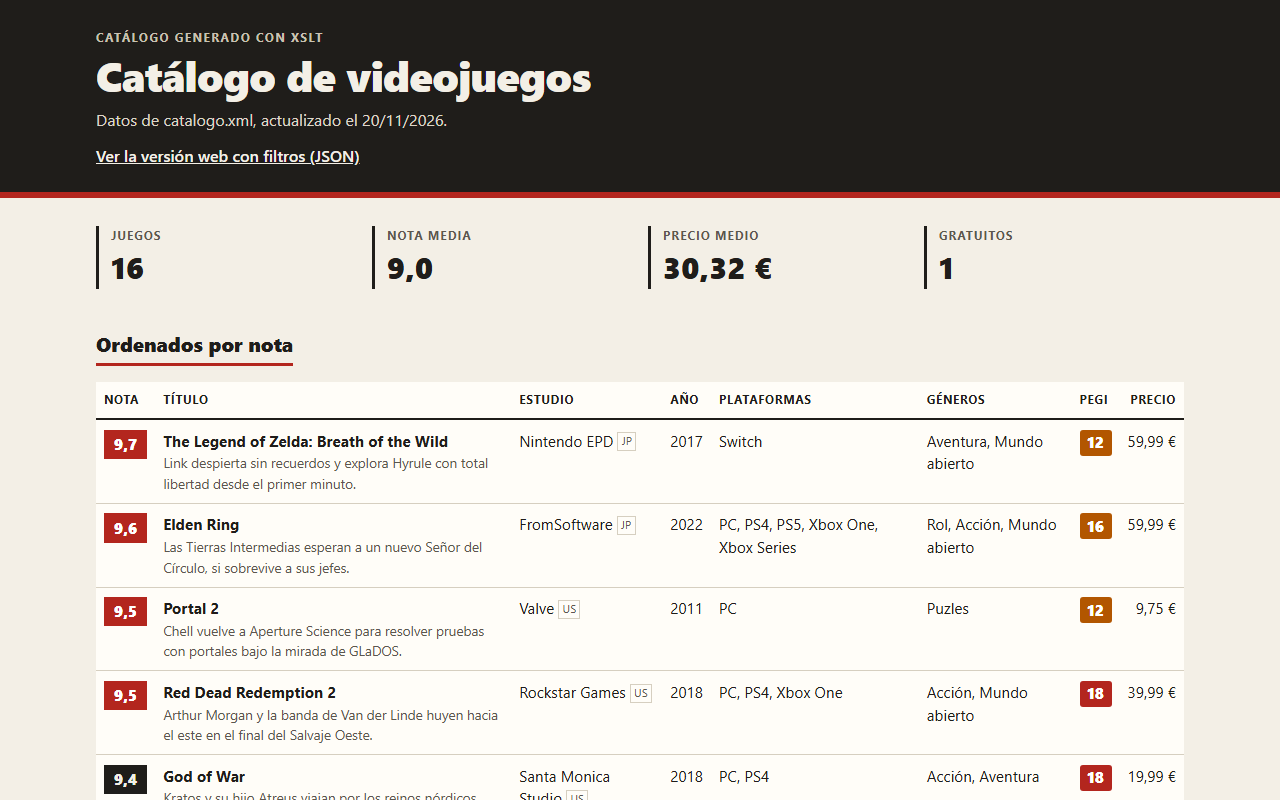
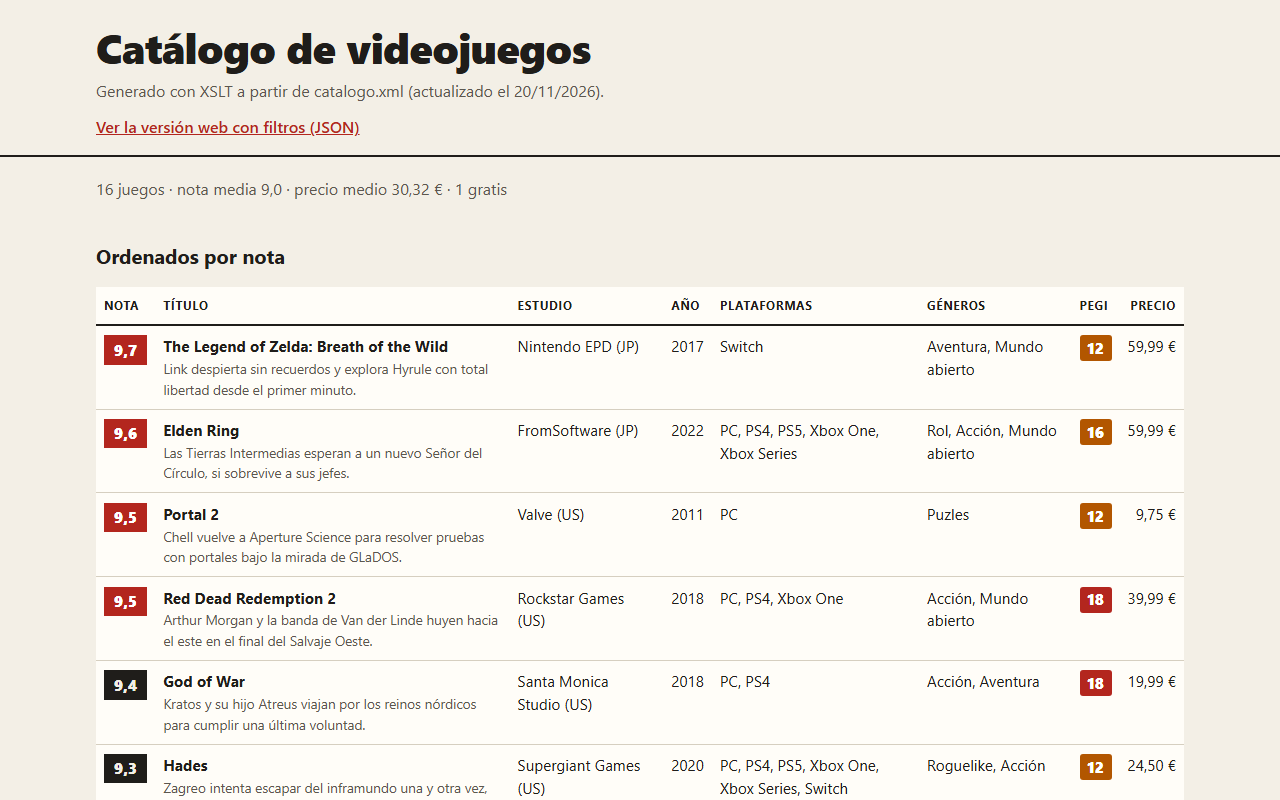
Cambio el diseño del catálogo y acorto el README

diff --git a/salida/catalogo.html b/salida/catalogo.html
@@ -9,35 +9,15 @@
     <body>
         <header class="cabecera">
             <div class="contenedor">
-                <p class="cabecera__etiqueta">Cat&aacute;logo generado con XSLT</p>
                 <h1>Cat&aacute;logo de videojuegos</h1>
-                <p class="cabecera__texto">Datos de catalogo.xml, actualizado el 20/11/2026.</p>
+                <p class="cabecera__texto">Generado con XSLT a partir de catalogo.xml (actualizado el 20/11/2026).</p>
                 <nav class="cabecera__enlaces" aria-label="Otras vistas">
                     <a href="../web/index.html">Ver la versi&oacute;n web con filtros (JSON)</a>
                 </nav>
             </div>
         </header>
         <main class="contenedor">
-            <section aria-label="Resumen del cat&aacute;logo">
-                <dl class="resumen">
-                    <div>
-                        <dt>Juegos</dt>
-                        <dd>16</dd>
-                    </div>
-                    <div>
-                        <dt>Nota media</dt>
-                        <dd>9,0</dd>
-                    </div>
-                    <div>
-                        <dt>Precio medio</dt>
-                        <dd>30,32&nbsp;&euro;</dd>
-                    </div>
-                    <div>
-                        <dt>Gratuitos</dt>
-                        <dd>1</dd>
-                    </div>
-                </dl>
-            </section>
+            <p class="resumen">16 juegos &middot; nota media 9,0 &middot; precio medio 30,32&nbsp;&euro; &middot; 1 gratis</p>
             <section aria-labelledby="titulo-tabla">
                 <h2 id="titulo-tabla">Ordenados por nota</h2>
                 <div class="tabla-envoltorio">
@@ -49,52 +29,52 @@
                         </thead>
                         <tbody>
                             <tr>
-                                <td data-etiqueta="Nota"><span class="nota nota--alta">9,7</span></td><th scope="row" data-etiqueta="T&iacute;tulo"><span class="tabla__titulo">The Legend of Zelda: Breath of the Wild</span><span class="tabla__descripcion">Link despierta sin recuerdos y explora Hyrule con total libertad desde el primer minuto.</span></th><td data-etiqueta="Estudio">Nintendo EPD<span class="pais">JP</span></td><td data-etiqueta="A&ntilde;o">2017</td><td data-etiqueta="Plataformas">Switch</td><td data-etiqueta="G&eacute;neros">Aventura, Mundo abierto</td><td data-etiqueta="PEGI"><span class="pegi pegi--naranja"><span class="visualmente-oculto">PEGI </span>12</span></td><td data-etiqueta="Precio" class="num">59,99&nbsp;&euro;</td>
+                                <td data-etiqueta="Nota"><span class="nota nota--alta">9,7</span></td><th scope="row" data-etiqueta="T&iacute;tulo"><span class="tabla__titulo">The Legend of Zelda: Breath of the Wild</span><span class="tabla__descripcion">Link despierta sin recuerdos y explora Hyrule con total libertad desde el primer minuto.</span></th><td data-etiqueta="Estudio">Nintendo EPD (JP)</td><td data-etiqueta="A&ntilde;o">2017</td><td data-etiqueta="Plataformas">Switch</td><td data-etiqueta="G&eacute;neros">Aventura, Mundo abierto</td><td data-etiqueta="PEGI"><span class="pegi pegi--naranja"><span class="visualmente-oculto">PEGI </span>12</span></td><td data-etiqueta="Precio" class="num">59,99&nbsp;&euro;</td>
                             </tr>
                             <tr>
-                                <td data-etiqueta="Nota"><span class="nota nota--alta">9,6</span></td><th scope="row" data-etiqueta="T&iacute;tulo"><span class="tabla__titulo">Elden Ring</span><span class="tabla__descripcion">Las Tierras Intermedias esperan a un nuevo Se&ntilde;or del C&iacute;rculo, si sobrevive a sus jefes.</span></th><td data-etiqueta="Estudio">FromSoftware<span class="pais">JP</span></td><td data-etiqueta="A&ntilde;o">2022</td><td data-etiqueta="Plataformas">PC, PS4, PS5, Xbox One, Xbox Series</td><td data-etiqueta="G&eacute;neros">Rol, Acci&oacute;n, Mundo abierto</td><td data-etiqueta="PEGI"><span class="pegi pegi--naranja"><span class="visualmente-oculto">PEGI </span>16</span></td><td data-etiqueta="Precio" class="num">59,99&nbsp;&euro;</td>
+                                <td data-etiqueta="Nota"><span class="nota nota--alta">9,6</span></td><th scope="row" data-etiqueta="T&iacute;tulo"><span class="tabla__titulo">Elden Ring</span><span class="tabla__descripcion">Las Tierras Intermedias esperan a un nuevo Se&ntilde;or del C&iacute;rculo, si sobrevive a sus jefes.</span></th><td data-etiqueta="Estudio">FromSoftware (JP)</td><td data-etiqueta="A&ntilde;o">2022</td><td data-etiqueta="Plataformas">PC, PS4, PS5, Xbox One, Xbox Series</td><td data-etiqueta="G&eacute;neros">Rol, Acci&oacute;n, Mundo abierto</td><td data-etiqueta="PEGI"><span class="pegi pegi--naranja"><span class="visualmente-oculto">PEGI </span>16</span></td><td data-etiqueta="Precio" class="num">59,99&nbsp;&euro;</td>
                             </tr>
                             <tr>
-                                <td data-etiqueta="Nota"><span class="nota nota--alta">9,5</span></td><th scope="row" data-etiqueta="T&iacute;tulo"><span class="tabla__titulo">Portal 2</span><span class="tabla__descripcion">Chell vuelve a Aperture Science para resolver pruebas con portales bajo la mirada de GLaDOS.</span></th><td data-etiqueta="Estudio">Valve<span class="pais">US</span></td><td data-etiqueta="A&ntilde;o">2011</td><td data-etiqueta="Plataformas">PC</td><td data-etiqueta="G&eacute;neros">Puzles</td><td data-etiqueta="PEGI"><span class="pegi pegi--naranja"><span class="visualmente-oculto">PEGI </span>12</span></td><td data-etiqueta="Precio" class="num">9,75&nbsp;&euro;</td>
+                                <td data-etiqueta="Nota"><span class="nota nota--alta">9,5</span></td><th scope="row" data-etiqueta="T&iacute;tulo"><span class="tabla__titulo">Portal 2</span><span class="tabla__descripcion">Chell vuelve a Aperture Science para resolver pruebas con portales bajo la mirada de GLaDOS.</span></th><td data-etiqueta="Estudio">Valve (US)</td><td data-etiqueta="A&ntilde;o">2011</td><td data-etiqueta="Plataformas">PC</td><td data-etiqueta="G&eacute;neros">Puzles</td><td data-etiqueta="PEGI"><span class="pegi pegi--naranja"><span class="visualmente-oculto">PEGI </span>12</span></td><td data-etiqueta="Precio" class="num">9,75&nbsp;&euro;</td>
                             </tr>
                             <tr>
-                                <td data-etiqueta="Nota"><span class="nota nota--alta">9,5</span></td><th scope="row" data-etiqueta="T&iacute;tulo"><span class="tabla__titulo">Red Dead Redemption 2</span><span class="tabla__descripcion">Arthur Morgan y la banda de Van der Linde huyen hacia el este en el final del Salvaje Oeste.</span></th><td data-etiqueta="Estudio">Rockstar Games<span class="pais">US</span></td><td data-etiqueta="A&ntilde;o">2018</td><td data-etiqueta="Plataformas">PC, PS4, Xbox One</td><td data-etiqueta="G&eacute;neros">Acci&oacute;n, Mundo abierto</td><td data-etiqueta="PEGI"><span class="pegi pegi--rojo"><span class="visualmente-oculto">PEGI </span>18</span></td><td data-etiqueta="Precio" class="num">39,99&nbsp;&euro;</td>
+                                <td data-etiqueta="Nota"><span class="nota nota--alta">9,5</span></td><th scope="row" data-etiqueta="T&iacute;tulo"><span class="tabla__titulo">Red Dead Redemption 2</span><span class="tabla__descripcion">Arthur Morgan y la banda de Van der Linde huyen hacia el este en el final del Salvaje Oeste.</span></th><td data-etiqueta="Estudio">Rockstar Games (US)</td><td data-etiqueta="A&ntilde;o">2018</td><td data-etiqueta="Plataformas">PC, PS4, Xbox One</td><td data-etiqueta="G&eacute;neros">Acci&oacute;n, Mundo abierto</td><td data-etiqueta="PEGI"><span class="pegi pegi--rojo"><span class="visualmente-oculto">PEGI </span>18</span></td><td data-etiqueta="Precio" class="num">39,99&nbsp;&euro;</td>
                             </tr>
                             <tr>
-                                <td data-etiqueta="Nota"><span class="nota">9,4</span></td><th scope="row" data-etiqueta="T&iacute;tulo"><span class="tabla__titulo">God of War</span><span class="tabla__descripcion">Kratos y su hijo Atreus viajan por los reinos n&oacute;rdicos para cumplir una &uacute;ltima voluntad.</span></th><td data-etiqueta="Estudio">Santa Monica Studio<span class="pais">US</span></td><td data-etiqueta="A&ntilde;o">2018</td><td data-etiqueta="Plataformas">PC, PS4</td><td data-etiqueta="G&eacute;neros">Acci&oacute;n, Aventura</td><td data-etiqueta="PEGI"><span class="pegi pegi--rojo"><span class="visualmente-oculto">PEGI </span>18</span></td><td data-etiqueta="Precio" class="num">19,99&nbsp;&euro;</td>
+                                <td data-etiqueta="Nota"><span class="nota">9,4</span></td><th scope="row" data-etiqueta="T&iacute;tulo"><span class="tabla__titulo">God of War</span><span class="tabla__descripcion">Kratos y su hijo Atreus viajan por los reinos n&oacute;rdicos para cumplir una &uacute;ltima voluntad.</span></th><td data-etiqueta="Estudio">Santa Monica Studio (US)</td><td data-etiqueta="A&ntilde;o">2018</td><td data-etiqueta="Plataformas">PC, PS4</td><td data-etiqueta="G&eacute;neros">Acci&oacute;n, Aventura</td><td data-etiqueta="PEGI"><span class="pegi pegi--rojo"><span class="visualmente-oculto">PEGI </span>18</span></td><td data-etiqueta="Precio" class="num">19,99&nbsp;&euro;</td>
                             </tr>
                             <tr>
-                                <td data-etiqueta="Nota"><span class="nota">9,3</span></td><th scope="row" data-etiqueta="T&iacute;tulo"><span class="tabla__titulo">Hades</span><span class="tabla__descripcion">Zagreo intenta escapar del inframundo una y otra vez, con ayuda de los dioses del Olimpo.</span></th><td data-etiqueta="Estudio">Supergiant Games<span class="pais">US</span></td><td data-etiqueta="A&ntilde;o">2020</td><td data-etiqueta="Plataformas">PC, PS4, PS5, Xbox One, Xbox Series, Switch</td><td data-etiqueta="G&eacute;neros">Roguelike, Acci&oacute;n</td><td data-etiqueta="PEGI"><span class="pegi pegi--naranja"><span class="visualmente-oculto">PEGI </span>12</span></td><td data-etiqueta="Precio" class="num">24,50&nbsp;&euro;</td>
+                                <td data-etiqueta="Nota"><span class="nota">9,3</span></td><th scope="row" data-etiqueta="T&iacute;tulo"><span class="tabla__titulo">Hades</span><span class="tabla__descripcion">Zagreo intenta escapar del inframundo una y otra vez, con ayuda de los dioses del Olimpo.</span></th><td data-etiqueta="Estudio">Supergiant Games (US)</td><td data-etiqueta="A&ntilde;o">2020</td><td data-etiqueta="Plataformas">PC, PS4, PS5, Xbox One, Xbox Series, Switch</td><td data-etiqueta="G&eacute;neros">Roguelike, Acci&oacute;n</td><td data-etiqueta="PEGI"><span class="pegi pegi--naranja"><span class="visualmente-oculto">PEGI </span>12</span></td><td data-etiqueta="Precio" class="num">24,50&nbsp;&euro;</td>
                             </tr>
                             <tr>
-                                <td data-etiqueta="Nota"><span class="nota">9,3</span></td><th scope="row" data-etiqueta="T&iacute;tulo"><span class="tabla__titulo">The Witcher 3: Wild Hunt</span><span class="tabla__descripcion">Geralt de Rivia busca a Ciri en un continente en guerra lleno de contratos y monstruos.</span></th><td data-etiqueta="Estudio">CD Projekt Red<span class="pais">PL</span></td><td data-etiqueta="A&ntilde;o">2015</td><td data-etiqueta="Plataformas">PC, PS4, PS5, Xbox One, Xbox Series, Switch</td><td data-etiqueta="G&eacute;neros">Rol, Mundo abierto</td><td data-etiqueta="PEGI"><span class="pegi pegi--rojo"><span class="visualmente-oculto">PEGI </span>18</span></td><td data-etiqueta="Precio" class="num">29,99&nbsp;&euro;</td>
+                                <td data-etiqueta="Nota"><span class="nota">9,3</span></td><th scope="row" data-etiqueta="T&iacute;tulo"><span class="tabla__titulo">The Witcher 3: Wild Hunt</span><span class="tabla__descripcion">Geralt de Rivia busca a Ciri en un continente en guerra lleno de contratos y monstruos.</span></th><td data-etiqueta="Estudio">CD Projekt Red (PL)</td><td data-etiqueta="A&ntilde;o">2015</td><td data-etiqueta="Plataformas">PC, PS4, PS5, Xbox One, Xbox Series, Switch</td><td data-etiqueta="G&eacute;neros">Rol, Mundo abierto</td><td data-etiqueta="PEGI"><span class="pegi pegi--rojo"><span class="visualmente-oculto">PEGI </span>18</span></td><td data-etiqueta="Precio" class="num">29,99&nbsp;&euro;</td>
                             </tr>
                             <tr>
-                                <td data-etiqueta="Nota"><span class="nota">9,2</span></td><th scope="row" data-etiqueta="T&iacute;tulo"><span class="tabla__titulo">Mario Kart 8 Deluxe</span><span class="tabla__descripcion">Carreras con caparazones, pl&aacute;tanos y circuitos antigravedad para jugar hasta con cuatro personas.</span></th><td data-etiqueta="Estudio">Nintendo EPD<span class="pais">JP</span></td><td data-etiqueta="A&ntilde;o">2017</td><td data-etiqueta="Plataformas">Switch</td><td data-etiqueta="G&eacute;neros">Carreras</td><td data-etiqueta="PEGI"><span class="pegi pegi--verde"><span class="visualmente-oculto">PEGI </span>3</span></td><td data-etiqueta="Precio" class="num">59,99&nbsp;&euro;</td>
+                                <td data-etiqueta="Nota"><span class="nota">9,2</span></td><th scope="row" data-etiqueta="T&iacute;tulo"><span class="tabla__titulo">Mario Kart 8 Deluxe</span><span class="tabla__descripcion">Carreras con caparazones, pl&aacute;tanos y circuitos antigravedad para jugar hasta con cuatro personas.</span></th><td data-etiqueta="Estudio">Nintendo EPD (JP)</td><td data-etiqueta="A&ntilde;o">2017</td><td data-etiqueta="Plataformas">Switch</td><td data-etiqueta="G&eacute;neros">Carreras</td><td data-etiqueta="PEGI"><span class="pegi pegi--verde"><span class="visualmente-oculto">PEGI </span>3</span></td><td data-etiqueta="Precio" class="num">59,99&nbsp;&euro;</td>
                             </tr>
                             <tr>
-                                <td data-etiqueta="Nota"><span class="nota">9,1</span></td><th scope="row" data-etiqueta="T&iacute;tulo"><span class="tabla__titulo">Celeste</span><span class="tabla__descripcion">Madeline intenta subir a la cima de una monta&ntilde;a a base de saltos muy precisos.</span></th><td data-etiqueta="Estudio">Maddy Makes Games<span class="pais">CA</span></td><td data-etiqueta="A&ntilde;o">2018</td><td data-etiqueta="Plataformas">PC, PS4, Xbox One, Switch</td><td data-etiqueta="G&eacute;neros">Plataformas</td><td data-etiqueta="PEGI"><span class="pegi pegi--verde"><span class="visualmente-oculto">PEGI </span>7</span></td><td data-etiqueta="Precio" class="num">19,99&nbsp;&euro;</td>
+                                <td data-etiqueta="Nota"><span class="nota">9,1</span></td><th scope="row" data-etiqueta="T&iacute;tulo"><span class="tabla__titulo">Celeste</span><span class="tabla__descripcion">Madeline intenta subir a la cima de una monta&ntilde;a a base de saltos muy precisos.</span></th><td data-etiqueta="Estudio">Maddy Makes Games (CA)</td><td data-etiqueta="A&ntilde;o">2018</td><td data-etiqueta="Plataformas">PC, PS4, Xbox One, Switch</td><td data-etiqueta="G&eacute;neros">Plataformas</td><td data-etiqueta="PEGI"><span class="pegi pegi--verde"><span class="visualmente-oculto">PEGI </span>7</span></td><td data-etiqueta="Precio" class="num">19,99&nbsp;&euro;</td>
                             </tr>
                             <tr>
-                                <td data-etiqueta="Nota"><span class="nota">8,9</span></td><th scope="row" data-etiqueta="T&iacute;tulo"><span class="tabla__titulo">Hollow Knight</span><span class="tabla__descripcion">Un peque&ntilde;o caballero recorre las ruinas del reino subterr&aacute;neo de Hallownest.</span></th><td data-etiqueta="Estudio">Team Cherry<span class="pais">AU</span></td><td data-etiqueta="A&ntilde;o">2017</td><td data-etiqueta="Plataformas">PC, PS4, Xbox One, Switch</td><td data-etiqueta="G&eacute;neros">Metroidvania, Plataformas</td><td data-etiqueta="PEGI"><span class="pegi pegi--verde"><span class="visualmente-oculto">PEGI </span>7</span></td><td data-etiqueta="Precio" class="num">14,99&nbsp;&euro;</td>
+                                <td data-etiqueta="Nota"><span class="nota">8,9</span></td><th scope="row" data-etiqueta="T&iacute;tulo"><span class="tabla__titulo">Hollow Knight</span><span class="tabla__descripcion">Un peque&ntilde;o caballero recorre las ruinas del reino subterr&aacute;neo de Hallownest.</span></th><td data-etiqueta="Estudio">Team Cherry (AU)</td><td data-etiqueta="A&ntilde;o">2017</td><td data-etiqueta="Plataformas">PC, PS4, Xbox One, Switch</td><td data-etiqueta="G&eacute;neros">Metroidvania, Plataformas</td><td data-etiqueta="PEGI"><span class="pegi pegi--verde"><span class="visualmente-oculto">PEGI </span>7</span></td><td data-etiqueta="Precio" class="num">14,99&nbsp;&euro;</td>
                             </tr>
                             <tr>
-                                <td data-etiqueta="Nota"><span class="nota">8,9</span></td><th scope="row" data-etiqueta="T&iacute;tulo"><span class="tabla__titulo">Stardew Valley</span><span class="tabla__descripcion">Heredas la granja de tu abuelo y decides qu&eacute; cultivar, con qui&eacute;n hablar y cu&aacute;ndo bajar a la mina.</span></th><td data-etiqueta="Estudio">ConcernedApe<span class="pais">US</span></td><td data-etiqueta="A&ntilde;o">2016</td><td data-etiqueta="Plataformas">PC, PS4, Xbox One, Switch</td><td data-etiqueta="G&eacute;neros">Simulaci&oacute;n, Rol</td><td data-etiqueta="PEGI"><span class="pegi pegi--verde"><span class="visualmente-oculto">PEGI </span>7</span></td><td data-etiqueta="Precio" class="num">13,99&nbsp;&euro;</td>
+                                <td data-etiqueta="Nota"><span class="nota">8,9</span></td><th scope="row" data-etiqueta="T&iacute;tulo"><span class="tabla__titulo">Stardew Valley</span><span class="tabla__descripcion">Heredas la granja de tu abuelo y decides qu&eacute; cultivar, con qui&eacute;n hablar y cu&aacute;ndo bajar a la mina.</span></th><td data-etiqueta="Estudio">ConcernedApe (US)</td><td data-etiqueta="A&ntilde;o">2016</td><td data-etiqueta="Plataformas">PC, PS4, Xbox One, Switch</td><td data-etiqueta="G&eacute;neros">Simulaci&oacute;n, Rol</td><td data-etiqueta="PEGI"><span class="pegi pegi--verde"><span class="visualmente-oculto">PEGI </span>7</span></td><td data-etiqueta="Precio" class="num">13,99&nbsp;&euro;</td>
                             </tr>
                             <tr>
-                                <td data-etiqueta="Nota"><span class="nota">8,7</span></td><th scope="row" data-etiqueta="T&iacute;tulo"><span class="tabla__titulo">Animal Crossing: New Horizons</span><span class="tabla__descripcion">Te mudas a una isla desierta y la vas convirtiendo en un pueblo a tu gusto d&iacute;a a d&iacute;a.</span></th><td data-etiqueta="Estudio">Nintendo EPD<span class="pais">JP</span></td><td data-etiqueta="A&ntilde;o">2020</td><td data-etiqueta="Plataformas">Switch</td><td data-etiqueta="G&eacute;neros">Simulaci&oacute;n</td><td data-etiqueta="PEGI"><span class="pegi pegi--verde"><span class="visualmente-oculto">PEGI </span>3</span></td><td data-etiqueta="Precio" class="num">59,99&nbsp;&euro;</td>
+                                <td data-etiqueta="Nota"><span class="nota">8,7</span></td><th scope="row" data-etiqueta="T&iacute;tulo"><span class="tabla__titulo">Animal Crossing: New Horizons</span><span class="tabla__descripcion">Te mudas a una isla desierta y la vas convirtiendo en un pueblo a tu gusto d&iacute;a a d&iacute;a.</span></th><td data-etiqueta="Estudio">Nintendo EPD (JP)</td><td data-etiqueta="A&ntilde;o">2020</td><td data-etiqueta="Plataformas">Switch</td><td data-etiqueta="G&eacute;neros">Simulaci&oacute;n</td><td data-etiqueta="PEGI"><span class="pegi pegi--verde"><span class="visualmente-oculto">PEGI </span>3</span></td><td data-etiqueta="Precio" class="num">59,99&nbsp;&euro;</td>
                             </tr>
                             <tr>
-                                <td data-etiqueta="Nota"><span class="nota">8,5</span></td><th scope="row" data-etiqueta="T&iacute;tulo"><span class="tabla__titulo">Minecraft</span><span class="tabla__descripcion">Mundos hechos de bloques para construir, explorar y sobrevivir a la primera noche.</span></th><td data-etiqueta="Estudio">Mojang Studios<span class="pais">SE</span></td><td data-etiqueta="A&ntilde;o">2011</td><td data-etiqueta="Plataformas">PC, PS4, Xbox One, Switch</td><td data-etiqueta="G&eacute;neros">Sandbox, Aventura</td><td data-etiqueta="PEGI"><span class="pegi pegi--verde"><span class="visualmente-oculto">PEGI </span>7</span></td><td data-etiqueta="Precio" class="num">29,99&nbsp;&euro;</td>
+                                <td data-etiqueta="Nota"><span class="nota">8,5</span></td><th scope="row" data-etiqueta="T&iacute;tulo"><span class="tabla__titulo">Minecraft</span><span class="tabla__descripcion">Mundos hechos de bloques para construir, explorar y sobrevivir a la primera noche.</span></th><td data-etiqueta="Estudio">Mojang Studios (SE)</td><td data-etiqueta="A&ntilde;o">2011</td><td data-etiqueta="Plataformas">PC, PS4, Xbox One, Switch</td><td data-etiqueta="G&eacute;neros">Sandbox, Aventura</td><td data-etiqueta="PEGI"><span class="pegi pegi--verde"><span class="visualmente-oculto">PEGI </span>7</span></td><td data-etiqueta="Precio" class="num">29,99&nbsp;&euro;</td>
                             </tr>
                             <tr>
-                                <td data-etiqueta="Nota"><span class="nota">8,4</span></td><th scope="row" data-etiqueta="T&iacute;tulo"><span class="tabla__titulo">Gris</span><span class="tabla__descripcion">Un viaje sin palabras en el que el mundo recupera el color a medida que avanzas.</span></th><td data-etiqueta="Estudio">Nomada Studio<span class="pais">ES</span></td><td data-etiqueta="A&ntilde;o">2018</td><td data-etiqueta="Plataformas">PC, PS4, Switch</td><td data-etiqueta="G&eacute;neros">Aventura, Plataformas</td><td data-etiqueta="PEGI"><span class="pegi pegi--verde"><span class="visualmente-oculto">PEGI </span>3</span></td><td data-etiqueta="Precio" class="num">16,99&nbsp;&euro;</td>
+                                <td data-etiqueta="Nota"><span class="nota">8,4</span></td><th scope="row" data-etiqueta="T&iacute;tulo"><span class="tabla__titulo">Gris</span><span class="tabla__descripcion">Un viaje sin palabras en el que el mundo recupera el color a medida que avanzas.</span></th><td data-etiqueta="Estudio">Nomada Studio (ES)</td><td data-etiqueta="A&ntilde;o">2018</td><td data-etiqueta="Plataformas">PC, PS4, Switch</td><td data-etiqueta="G&eacute;neros">Aventura, Plataformas</td><td data-etiqueta="PEGI"><span class="pegi pegi--verde"><span class="visualmente-oculto">PEGI </span>3</span></td><td data-etiqueta="Precio" class="num">16,99&nbsp;&euro;</td>
                             </tr>
                             <tr>
-                                <td data-etiqueta="Nota"><span class="nota">8,0</span></td><th scope="row" data-etiqueta="T&iacute;tulo"><span class="tabla__titulo">Blasphemous</span><span class="tabla__descripcion">El Penitente recorre Cvstodia, una tierra inspirada en la Semana Santa andaluza.</span></th><td data-etiqueta="Estudio">The Game Kitchen<span class="pais">ES</span></td><td data-etiqueta="A&ntilde;o">2019</td><td data-etiqueta="Plataformas">PC, PS4, Xbox One, Switch</td><td data-etiqueta="G&eacute;neros">Metroidvania, Acci&oacute;n</td><td data-etiqueta="PEGI"><span class="pegi pegi--naranja"><span class="visualmente-oculto">PEGI </span>16</span></td><td data-etiqueta="Precio" class="num">24,99&nbsp;&euro;</td>
+                                <td data-etiqueta="Nota"><span class="nota">8,0</span></td><th scope="row" data-etiqueta="T&iacute;tulo"><span class="tabla__titulo">Blasphemous</span><span class="tabla__descripcion">El Penitente recorre Cvstodia, una tierra inspirada en la Semana Santa andaluza.</span></th><td data-etiqueta="Estudio">The Game Kitchen (ES)</td><td data-etiqueta="A&ntilde;o">2019</td><td data-etiqueta="Plataformas">PC, PS4, Xbox One, Switch</td><td data-etiqueta="G&eacute;neros">Metroidvania, Acci&oacute;n</td><td data-etiqueta="PEGI"><span class="pegi pegi--naranja"><span class="visualmente-oculto">PEGI </span>16</span></td><td data-etiqueta="Precio" class="num">24,99&nbsp;&euro;</td>
                             </tr>
                             <tr>
-                                <td data-etiqueta="Nota"><span class="nota">7,6</span></td><th scope="row" data-etiqueta="T&iacute;tulo"><span class="tabla__titulo">Fortnite</span><span class="tabla__descripcion">Cien jugadores caen en una isla y solo uno, o un equipo, queda en pie.</span></th><td data-etiqueta="Estudio">Epic Games<span class="pais">US</span></td><td data-etiqueta="A&ntilde;o">2017</td><td data-etiqueta="Plataformas">PC, PS4, PS5, Xbox One, Xbox Series, Switch</td><td data-etiqueta="G&eacute;neros">Shooter, Acci&oacute;n</td><td data-etiqueta="PEGI"><span class="pegi pegi--naranja"><span class="visualmente-oculto">PEGI </span>12</span></td><td data-etiqueta="Precio" class="num">Gratis</td>
+                                <td data-etiqueta="Nota"><span class="nota">7,6</span></td><th scope="row" data-etiqueta="T&iacute;tulo"><span class="tabla__titulo">Fortnite</span><span class="tabla__descripcion">Cien jugadores caen en una isla y solo uno, o un equipo, queda en pie.</span></th><td data-etiqueta="Estudio">Epic Games (US)</td><td data-etiqueta="A&ntilde;o">2017</td><td data-etiqueta="Plataformas">PC, PS4, PS5, Xbox One, Xbox Series, Switch</td><td data-etiqueta="G&eacute;neros">Shooter, Acci&oacute;n</td><td data-etiqueta="PEGI"><span class="pegi pegi--naranja"><span class="visualmente-oculto">PEGI </span>12</span></td><td data-etiqueta="Precio" class="num">Gratis</td>
                             </tr>
                         </tbody>
                     </table>

diff --git a/css/estilos.css b/css/estilos.css
@@ -52,12 +52,9 @@ button:focus-visible {
   white-space: nowrap;
 }
 
-/* Cabecera tipo portada de revista: banda oscura con filete rojo */
 .cabecera {
-  background: var(--tinta);
-  color: var(--papel);
-  border-bottom: 6px solid var(--rojo);
-  padding: 1.75rem 0 1.5rem;
+  border-bottom: 2px solid var(--tinta);
+  padding: 1.5rem 0 1rem;
 }
 
 .cabecera h1 {
@@ -68,18 +65,9 @@ button:focus-visible {
   letter-spacing: -0.01em;
 }
 
-.cabecera__etiqueta {
-  margin: 0 0 0.4rem;
-  font-size: 0.75rem;
-  font-weight: 700;
-  letter-spacing: 0.12em;
-  text-transform: uppercase;
-  color: #c9c2b4;
-}
-
 .cabecera__texto {
   margin: 0.6rem 0 0;
-  color: #ddd6c8;
+  color: var(--gris);
 }
 
 .cabecera__enlaces {
@@ -87,49 +75,17 @@ button:focus-visible {
 }
 
 .cabecera__enlaces a {
-  color: var(--papel);
   font-weight: 600;
 }
 
-.cabecera a:focus-visible {
-  outline-color: var(--papel);
-}
-
 h2 {
-  display: inline-block;
   margin: 2.5rem 0 1rem;
-  padding-bottom: 0.2rem;
-  border-bottom: 3px solid var(--rojo);
   font-size: 1.25rem;
-  font-weight: 800;
 }
 
-/* Resumen con los datos calculados */
 .resumen {
-  display: grid;
-  grid-template-columns: repeat(4, 1fr);
-  gap: 1rem;
-  margin: 1.75rem 0 0;
-}
-
-.resumen div {
-  border-left: 3px solid var(--tinta);
-  padding-left: 0.75rem;
-}
-
-.resumen dt {
-  font-size: 0.75rem;
-  font-weight: 700;
-  letter-spacing: 0.08em;
-  text-transform: uppercase;
+  margin: 1.25rem 0 0;
   color: var(--gris);
-}
-
-.resumen dd {
-  margin: 0;
-  font-size: 1.9rem;
-  font-weight: 800;
-  font-variant-numeric: tabular-nums;
 }
 
 /* Tabla del catálogo */
@@ -173,16 +129,6 @@ h2 {
   text-align: right !important;
   white-space: nowrap;
   font-variant-numeric: tabular-nums;
-}
-
-.pais {
-  display: inline-block;
-  margin-left: 0.35em;
-  padding: 0 0.3em;
-  border: 1px solid var(--linea);
-  font-size: 0.7rem;
-  color: var(--gris);
-  vertical-align: 0.1em;
 }
 
 /* Caja de nota como las de las revistas de videojuegos */
@@ -315,14 +261,9 @@ h2 {
   border-bottom: 1px solid var(--linea);
 }
 
-/* Sin el subrayado rojo de los h2 de sección */
 .ficha h2 {
-  display: block;
   margin: 0;
-  padding: 0;
-  border: 0;
   font-size: 1.1rem;
-  font-weight: 700;
 }
 
 .ficha p {
@@ -360,10 +301,6 @@ h2 {
 }
 
 @media (max-width: 760px) {
-  .resumen {
-    grid-template-columns: 1fr 1fr;
-  }
-
   /* En móvil cada fila de la tabla pasa a ser un bloque con etiquetas */
   .tabla thead {
     position: absolute;

diff --git a/web/index.html b/web/index.html
@@ -9,7 +9,6 @@
 <body>
   <header class="cabecera">
     <div class="contenedor">
-      <p class="cabecera__etiqueta">XML, JSON y fetch</p>
       <h1>Catálogo de videojuegos</h1>
       <p class="cabecera__texto">Esta página lee datos/catalogo.json, que se genera a partir del XML con XSLT.</p>
       <nav class="cabecera__enlaces" aria-label="Otras vistas">

diff --git a/herramientas/Procesar.java b/herramientas/Procesar.java
@@ -45,7 +45,6 @@ public class Procesar {
 
     private static final Locale ESPANOL = Locale.of("es", "ES");
 
-    // El tipo le dice a XPath qué resultado esperamos: nodos, número, cadena o booleano
     record Consulta(String descripcion, String expresion, QName tipo) {}
 
     // Las mismas consultas que están explicadas en xpath/consultas-xpath.md
@@ -119,7 +118,7 @@ public class Procesar {
         try {
             documento = constructor.parse(xml.toFile());
         } catch (SAXParseException e) {
-            // Error grave: el XML no está bien formado. Ya queda anotado en la lista.
+            // ya se ha guardado en errores
         } catch (IOException e) {
             // Por ejemplo, un DOCTYPE que apunta a una DTD que no existe
             System.out.println("   No se puede leer: " + e.getMessage());
@@ -138,7 +137,7 @@ public class Procesar {
         try {
             validador.validate(new StreamSource(xml.toFile()));
         } catch (SAXParseException e) {
-            // ya anotado
+            // ya se ha guardado en errores
         } catch (IOException e) {
             System.out.println("   No se puede leer: " + e.getMessage());
             System.exit(1);
@@ -200,7 +199,7 @@ public class Procesar {
             xml.getFileName(), xsl.getFileName(), salida, Files.size(salida));
     }
 
-    /** Guarda los errores de validación para enseñarlos todos juntos y no solo el primero. */
+    // Junta todos los errores para enseñarlos de una vez
     static class ListaErrores implements ErrorHandler {
 
         private final List<String> errores = new ArrayList<>();

diff --git a/README.md b/README.md
@@ -1,104 +1,30 @@
 # Catálogo de videojuegos en XML
 
-Catálogo de 16 videojuegos guardado en XML, validado con DTD y con XSD, consultado con XPath y transformado con XSLT en una página HTML y en un fichero JSON. El JSON lo usa una pequeña página web con filtros hecha en JavaScript, así que se ve el recorrido completo XML → JSON → web.
+Práctica de Lenguajes de marcas (1º de DAW). Un catálogo de 16 videojuegos en XML que valido con una DTD y con un XSD, consulto con XPath y transformo con XSLT en una página HTML y en un JSON. Con ese JSON hice también una página con filtros en JavaScript.
 
 ![Catálogo generado con XSLT](docs/captura.png)
 
-## Qué practica
+Demo: https://michaelmarquez-daw.github.io/videojuegos-xml/web/
 
-Módulo de **Lenguajes de marcas y sistemas de gestión de información** (1º de DAW):
+## Cómo se usa
 
-- XML bien formado y válido: elementos frente a atributos, DOCTYPE.
-- DTD: `ELEMENT`, `ATTLIST`, `ID`, atributos enumerados y `#FIXED`, cardinalidad `+` y `?`.
-- XSD: tipos simples y complejos, `simpleContent` con atributos, restricciones (`enumeration`, `pattern`, `minInclusive`/`maxInclusive`, `fractionDigits`, `maxLength`), `minOccurs`/`maxOccurs`, `xs:key` y `xs:unique` (ids y títulos únicos, y plataformas o géneros sin repetir dentro de un juego).
-- XPath 1.0: predicados, funciones (`count`, `sum`, `not`, `string`, `boolean`) y tipos de resultado.
-- XSLT 1.0: `xsl:for-each`, `xsl:sort`, `xsl:if`, `xsl:choose`, `xsl:value-of`, plantillas con nombre y parámetros, agrupación con `xsl:key` (método Muenchian), `format-number`.
-- JSON y JSON Schema.
-- Java con las APIs estándar de XML (`javax.xml.validation`, DOM, `javax.xml.xpath`, `javax.xml.transform`).
-- JavaScript: `fetch`, `async/await`, `filter`, `sort`, `<template>`.
+Hace falta el JDK 21 (no hace falta Maven). Desde la carpeta del proyecto:
 
-## Tecnologías
+    java herramientas/Procesar.java
 
-XML, DTD, XSD, XPath, XSLT 1.0, JSON, JSON Schema, Java 21 (solo JDK), HTML5, CSS3 y JavaScript sin librerías.
+Valida `datos/catalogo.xml`, saca por consola las 10 consultas XPath y vuelve a generar `salida/catalogo.html` y `datos/catalogo.json`. Las consultas con su resultado están en `xpath/consultas-xpath.md`.
 
-## Cómo ejecutarlo (Windows)
+En `pruebas/` hay un XML con fallos puestos a propósito, que pasa la DTD pero no el XSD:
 
-Hace falta el JDK 21 o superior. No hace falta Maven ni ninguna librería.
+    java herramientas/Procesar.java pruebas/catalogo-con-errores.xml
 
-1. Abre una terminal (cmd, PowerShell o la de VS Code) en la carpeta del proyecto.
-2. Comprueba Java:
+Con ese fichero solo valida y consulta, no sobrescribe el HTML ni el JSON.
 
-   ```
-   java -version
-   ```
+La página de `web/` lee el JSON con `fetch`, así que hay que abrirla con Live Server o cualquier servidor local, no con doble clic. Para comprobar el JSON con su schema, pega `datos/catalogo.schema.json` y `datos/catalogo.json` en https://www.jsonschemavalidator.net (draft 2020-12).
 
-3. Ejecuta la herramienta. Java 21 compila y ejecuta el fichero directamente:
+## Notas
 
-   ```
-   java herramientas/Procesar.java
-   ```
-
-   Valida `datos/catalogo.xml` con la DTD y con el XSD, muestra las 10 consultas XPath y genera `salida/catalogo.html` y `datos/catalogo.json`.
-
-4. Para ver cómo se informa de los errores, prueba con el XML que tiene fallos a propósito (pasa la DTD pero no el XSD):
-
-   ```
-   java herramientas/Procesar.java pruebas/catalogo-con-errores.xml
-   ```
-
-   Con un XML que no sea `datos/catalogo.xml` solo se valida y se consulta: no se regeneran el HTML ni el JSON.
-
-5. Para abrir las páginas hace falta un servidor local, porque `fetch` no funciona abriendo el HTML con doble clic. Cualquiera de estas opciones vale:
-   - VS Code con la extensión Live Server: clic derecho en `web/index.html` y "Open with Live Server".
-   - PHP de XAMPP desde la carpeta del proyecto: `C:\xampp\php\php.exe -S localhost:8000` y abrir `http://localhost:8000/web/index.html`.
-   - Copiar la carpeta a `C:\xampp\htdocs\` y abrir `http://localhost/videojuegos-xml/web/index.html`.
-
-   El catálogo generado con XSLT está en `salida/catalogo.html`.
-
-6. Para comprobar el JSON con su JSON Schema, pega `datos/catalogo.schema.json` y `datos/catalogo.json` en https://www.jsonschemavalidator.net (draft 2020-12). Si tienes Python con la librería `jsonschema` (`pip install jsonschema`), también vale esta línea desde la carpeta del proyecto:
-
-   ```
-   python -c "import json, jsonschema; jsonschema.validate(json.load(open('datos/catalogo.json', encoding='utf-8')), json.load(open('datos/catalogo.schema.json', encoding='utf-8'))); print('JSON valido')"
-   ```
-
-Si en la consola de Git Bash salen mal las tildes, añade `-Dstdout.encoding=UTF-8` después de `java`.
-
-## Estructura
-
-```
-videojuegos-xml/
-├── datos/
-│   ├── catalogo.xml           datos originales
-│   ├── catalogo.dtd
-│   ├── catalogo.xsd
-│   ├── catalogo.json          generado con XSLT
-│   └── catalogo.schema.json   JSON Schema del JSON
-├── xslt/
-│   ├── catalogo-a-html.xsl
-│   └── catalogo-a-json.xsl
-├── xpath/
-│   └── consultas-xpath.md     las 10 consultas con su resultado
-├── herramientas/
-│   └── Procesar.java          valida, consulta y transforma
-├── salida/
-│   └── catalogo.html          generado con XSLT
-├── web/
-│   ├── index.html             lista con filtros que lee el JSON
-│   └── app.js
-├── css/
-│   └── estilos.css            compartido por las dos páginas
-├── pruebas/
-│   └── catalogo-con-errores.xml
-└── docs/
-    └── captura.png
-```
-
-`salida/catalogo.html` y `datos/catalogo.json` se generan, pero los dejo en el repositorio para que la web funcione sin tener que ejecutar nada antes.
-
-## Decisiones técnicas
-
-- **DTD y XSD a la vez.** La DTD solo comprueba la estructura y no sabe de tipos: acepta un precio con tres decimales o una plataforma inventada. El fichero de `pruebas/` lo demuestra: pasa la DTD y el XSD saca 13 mensajes que corresponden a 7 fallos (Xerces da dos mensajes por cada valor incorrecto: uno por la restricción y otro por el atributo o elemento).
-- **Atributos para metadatos y elementos para contenido.** `id`, `pegi`, `pais` y `moneda` son atributos porque son valores cortos que describen al dato. Título, plataformas o géneros son elementos porque pueden repetirse o tener estructura.
-- **Solo el JDK.** Java ya incluye validación, XPath y un procesador XSLT, así que no he usado Saxon ni Maven. La pega es que solo hay XSLT 1.0: sin `replace()`, sin salida JSON y sin `for-each-group`, por eso hay una plantilla recursiva para escapar comillas y la agrupación por PEGI usa `xsl:key`.
-- **El JSON se genera con XSLT** en lugar de escribirlo a mano o con código Java, para que el XML sea la única fuente de datos. En el JSON Schema quité `multipleOf: 0.01` para los precios porque con números en coma flotante falla (19.99 no es múltiplo exacto de 0.01 en binario).
-- **`textContent` en vez de `innerHTML`** al pintar las fichas en la web, para que un texto del JSON nunca se interprete como HTML.
+- Uso DTD y XSD a la vez porque la DTD no sabe de tipos: le vale un precio con tres decimales o una plataforma inventada.
+- Solo uso lo que trae el JDK, así que el XSLT es 1.0. Por eso la agrupación por PEGI va con `xsl:key` y para escapar comillas en el JSON hay una plantilla recursiva.
+- El JSON lo genero con XSLT para que el XML sea la única fuente de datos. En el JSON Schema quité `multipleOf: 0.01` en los precios porque con decimales en coma flotante falla.
+- `salida/catalogo.html` y `datos/catalogo.json` se generan, pero los subo para que la web funcione sin ejecutar nada antes.
